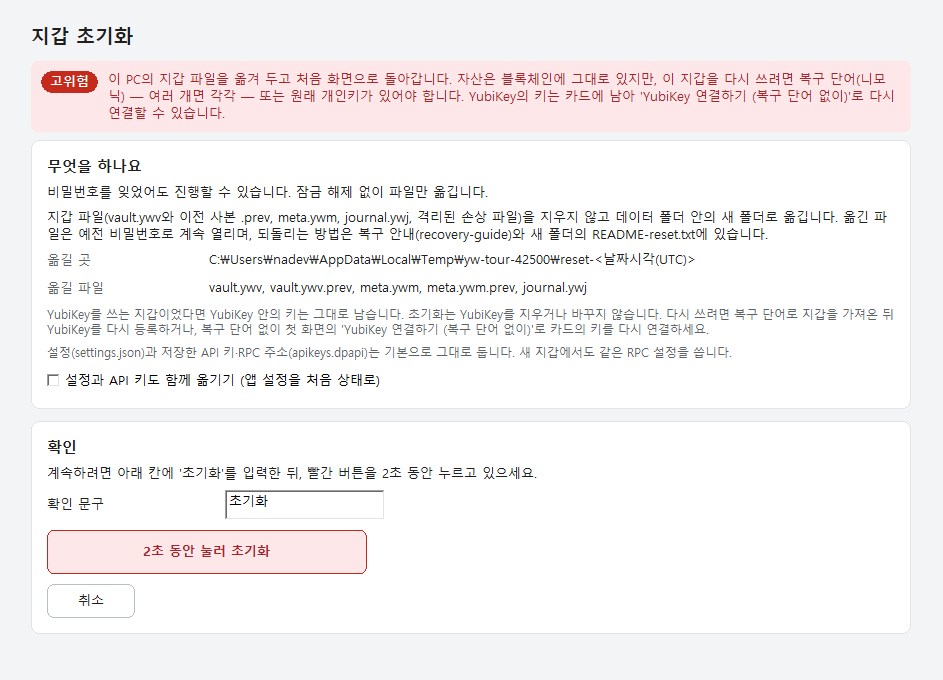
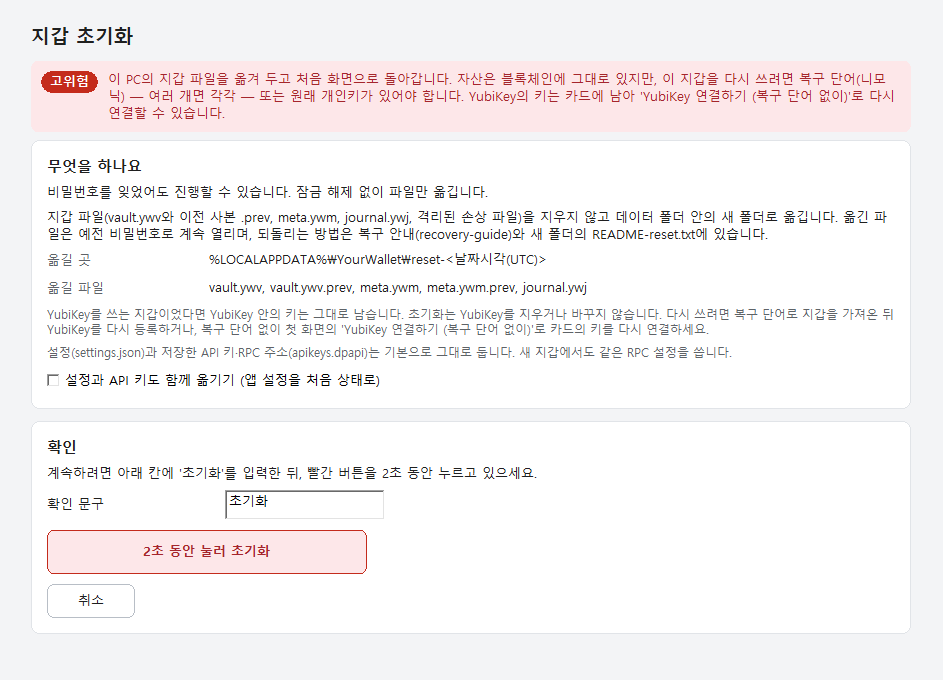
docs(screenshots): approval scenes with whole addresses and the two-line Solana fee; the reset scene shows a generic data folder
- tour shot 44 showed the tour's temp folder, which contains the local profile name; the scene now shows %LOCALAPPDATA%\YourWallet
- re-shot 12, 13, 21, 22, 23, 26, 27, 28, 30, 44, 58, 59; dated note in docs/screenshots/README.md

Changed region(s): [[0.2153, 0.3706, 0.7381, 0.4015]]

diff --git a/crates/yw-app/src/ui/tour.rs b/crates/yw-app/src/ui/tour.rs
@@ -1652,11 +1652,17 @@ fn screenshot_tour() {
     save(main_hwnd(&app), "08-locked");
     save(secret_hwnd(&app), "09-unlock-password");
     app.borrow_mut().close_secret();
-    {
+    let tour_data = {
         // S22 지갑 초기화 from the lock screen: the phrase typed, the hold not started. The file
-        // list is made up (the tour's data folder has no wallet files).
+        // list is made up (the tour's data folder has no wallet files), and the shown folder is
+        // the generic one, never the tour's temp path with the user's profile name (2026-11-14:
+        // shot 44 showed it before).
         let mut state = app.borrow_mut();
         state.open_reset();
+        let tour_data = std::mem::replace(
+            &mut state.paths.data,
+            std::path::PathBuf::from(r"%LOCALAPPDATA%\YourWallet"),
+        );
         state.reset.files = [
             "vault.ywv",
             "vault.ywv.prev",
@@ -1672,8 +1678,10 @@ fn screenshot_tour() {
             .set_text(crate::ui::screens_reset::ids::RESET_PHRASE, "초기화");
         state.reset.phrase_ok = true;
         state.refresh();
-    }
+        tour_data
+    };
     save(main_hwnd(&app), "44-wallet-reset");
+    app.borrow_mut().paths.data = tour_data;
     app.borrow_mut().cancel_reset();
 
     // Main screens.

diff --git a/docs/screenshots/README.md b/docs/screenshots/README.md
@@ -23,6 +23,7 @@
 - 같은 날 그 뒤(주소 한 형식): 모든 주소를 묶음 없이 전체로(대소문자 그대로) 그리고 접두부 뒤 4자·끝 4자를 강조하는 한 형식으로 바꾼 뒤(spec/04 §3.3) 04·11·12·13·14·18·20·21·22·23·26·27·28·29·30·34·38·42·46·54를 다시 찍었습니다. 같은 변경으로 Solana·Bitcoin·Zcash 보내기 양식의 금액 칸 가까이에 보낼 수 있는 잔액 줄이 생겼습니다. 다시 찍지 않은 장면에는 이전 형식이 남아 있을 수 있습니다.
 - 2026-11-13(Solana dApp 거래, M7.2): 새로 58(v0 + 조회 테이블 1개 전송 요청)·59(서명만 3건, 사이트가 수수료 지불)를 찍고, 문구가 바뀐 19(확장 팝업 공통 안내 "Bitcoin은 연결과 메시지 서명만 됩니다. Solana는 거래 서명·전송도 됩니다.", 이제 팝업 CSS 폭과 같은 360×860)·29(Solana `권한` 줄)를 다시 찍었습니다. 58·59의 거래·조회 테이블·풀 계정·위임 주소·사이트 수수료 지불자는 지어낸 값이고, 미리보기는 투어의 가짜 devnet(`SolDappTourRpc`)이 답했으며 아무것도 서명·전송하지 않았습니다. 나머지 장면은 그대로입니다.
 - 2026-11-13 그 뒤(dApp 거래 수수료, 다시 찍지 않음): 수수료 줄이 이제 RPC `getFeeForMessage` 값과 "계산값 … lamports (거래 바이트로 계산)" 두 줄이고, 투어의 가짜 devnet(`SolDappTourRpc`)은 메시지에서 계산한 수수료로 답합니다(59의 거래는 서명자 2명이라 10,000). 58·59 그림은 아직 그 전 한 줄 형식이며, 다음 `scripts/screenshot-tour.ps1` 실행에서 다시 찍어야 합니다.
+- 2026-11-14(주소 줄·초기화 경로): 주소 뒤에 대괄호 주석이 붙은 승인 창 줄(머리 `서명 계정 … [내 계정: 계정 1]`, 핵심 정보 `받는 주소/컨트랙트 … [일반 계정(EOA)]`)도 주소를 묶음 없이 전체로 그리고 주석을 다음 줄로 내린 뒤 승인 창 장면(12·13·21·22·26·27·28·30·58·59)을 다시 찍었습니다. 58·59는 위 항목의 수수료 두 줄도 이제 보입니다(23은 AI 응답 경과 시간만 다름). 44(지갑 초기화)의 `옮길 곳`은 이제 투어 임시 폴더(사용자 프로필 이름이 들어 있던 경로) 대신 일반 경로 `%LOCALAPPDATA%\YourWallet`을 보입니다.
 - 화면 크기는 100%(96 DPI) 기준입니다. 비밀 창(03–05, 09)은 실제로는 화면 캡처에서 제외되며, 투어 프로세스가 직접 만든 창에 한해 캡처 직전에 제외를 풀었습니다.
 
 | 파일 | 설명 |
